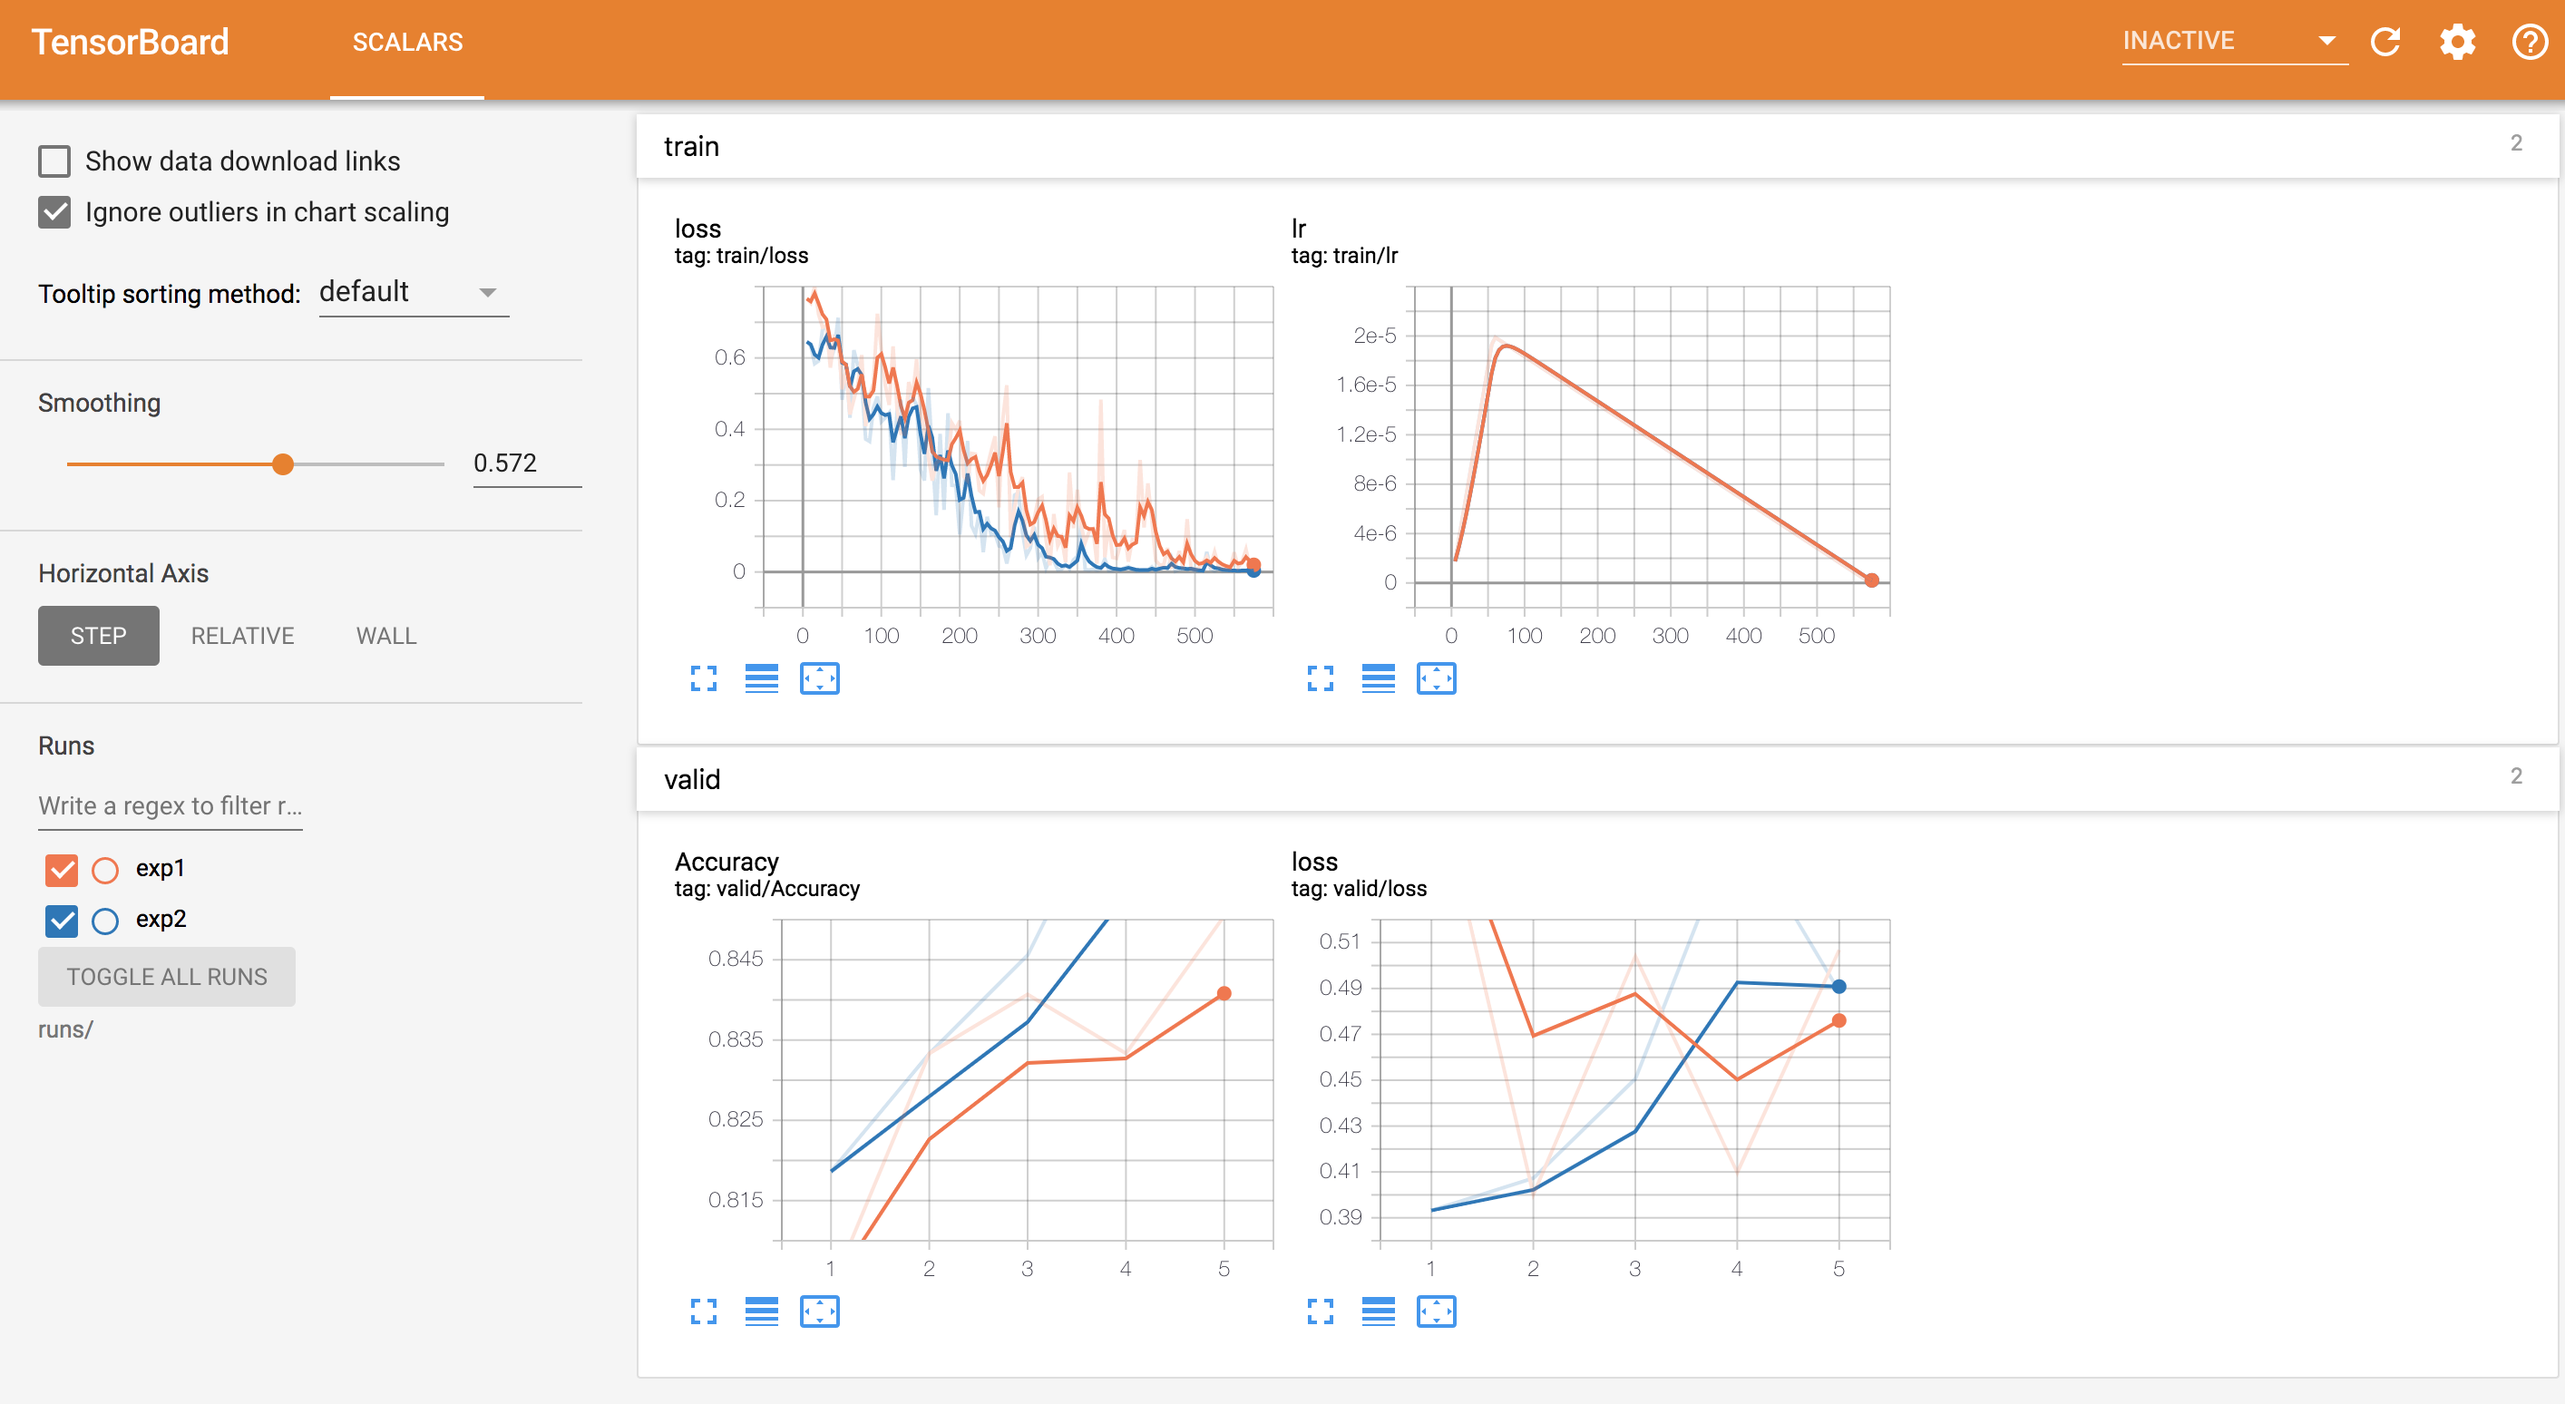
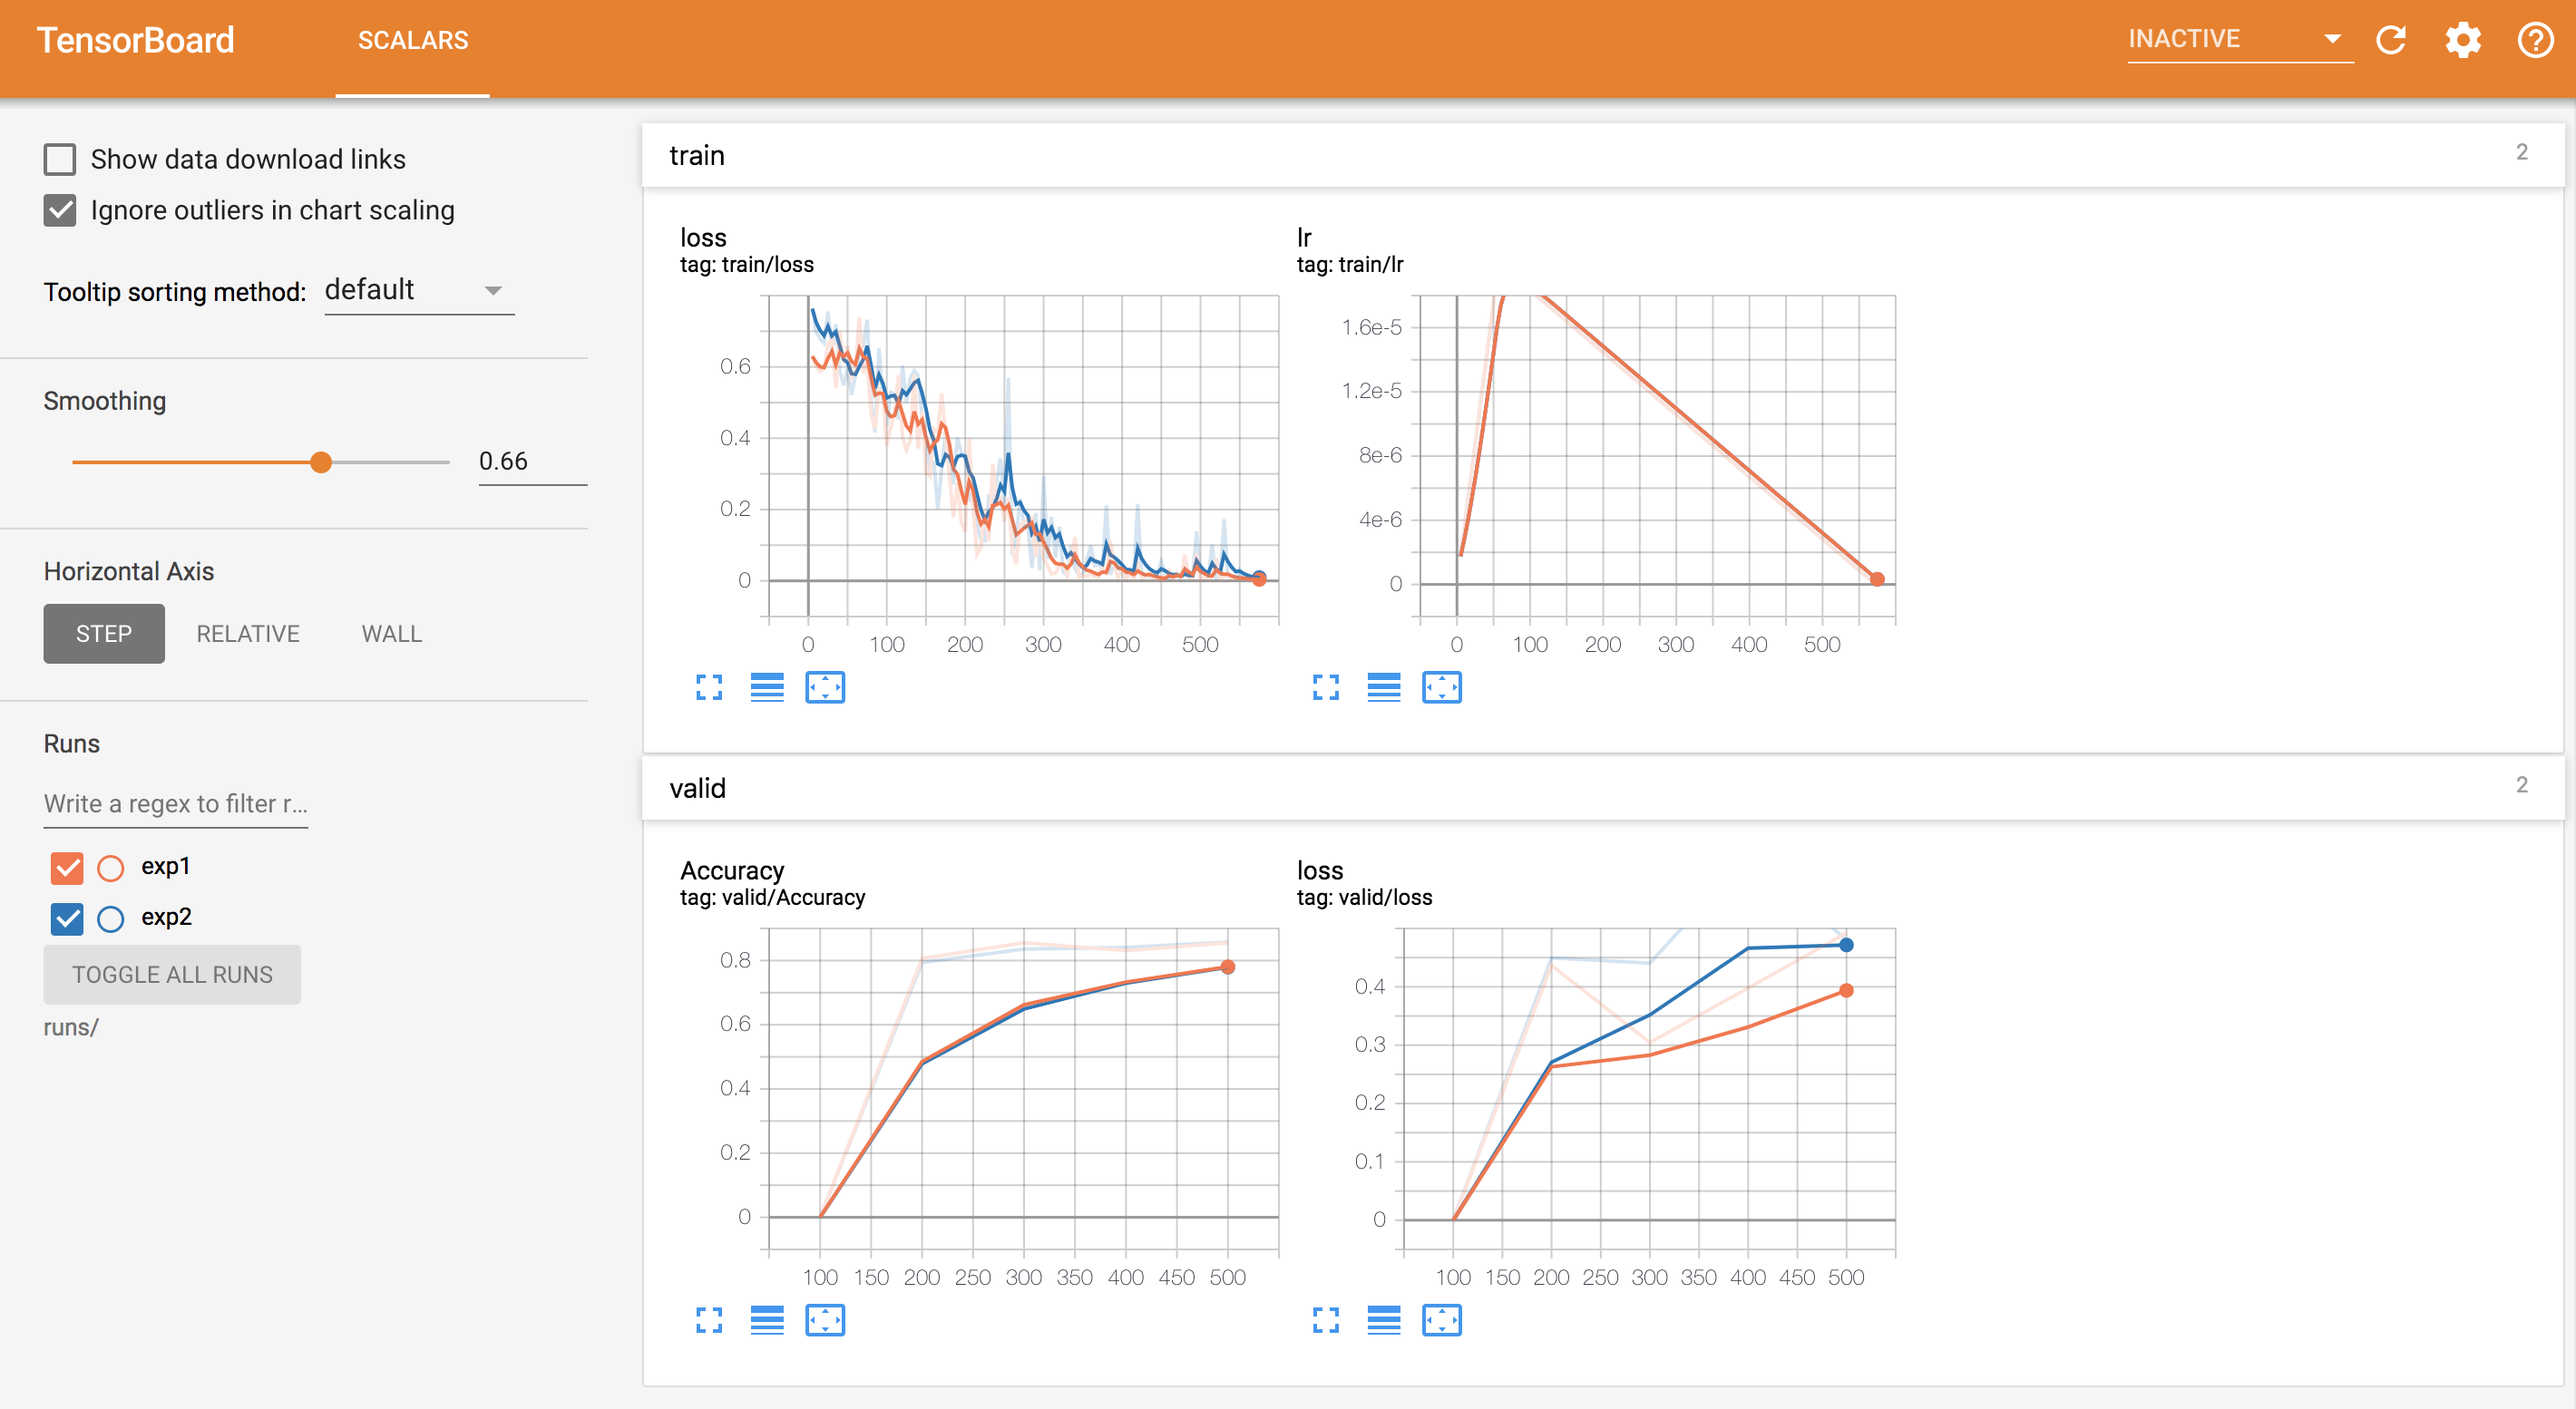
Fix CI and add missing docs
Fix Sphinx error. Add tensorboardX dependency in requirements.txt

Add tensorboardX in extras

Add tensorboard in spelling list

diff --git a/texar/torch/run/executor.py b/texar/torch/run/executor.py
@@ -257,6 +257,7 @@ class Executor:
 
     - :ref:`General arguments <executor-general-args>`
     - :ref:`Arguments for checkpoint management <executor-checkpoint-args>`
+    - :ref:`Arguments for tensorboard logging <executor-tbx-logging-args>`
     - :ref:`Arguments for training <executor-train-args>`
     - :ref:`Arguments for validation <executor-valid-args>`
     - :ref:`Arguments for testing <executor-test-args>`
@@ -334,14 +335,14 @@ class Executor:
 
     .. _executor-tbx-logging-args:
 
-    **Arguments for tensorboardX logging:**
+    **Arguments for tensorboard logging:**
 
     `tbx_logging_dir`: str
         Path to the directory for storing tensorboard logs.
 
     `tbx_log_every`: |Condition|
         Conditions that, when triggered, saves the tensorboard logs for train
-        metrics.
+        metrics. If None, :ref:`log_every <executor-log-args>` will be used.
 
     .. _executor-checkpoint-args:
 
@@ -1524,10 +1525,10 @@ class Executor:
 
             for key, value in valid_metrics.items():
                 self.summary_writer.add_scalar(
-                    f"valid/{key}", value.value(), executor.status["epoch"])
+                    f"valid/{key}", value.value(), executor.status["iteration"])
 
         _register(self._tbx_logging_conditions, tbx_train_log_fn)
-        _register([Event.Epoch], tbx_valid_log_fn)
+        _register(self._valid_conditions, tbx_valid_log_fn)
 
     def _write_log(self, log_str: str,
                    skip_tty: bool = False, skip_non_tty: bool = False,

diff --git a/texar/torch/run/executor_test.py b/texar/torch/run/executor_test.py
@@ -126,14 +126,14 @@ class ExecutorTest(unittest.TestCase):
             max_to_keep=3,
             save_every=[cond.time(seconds=10), cond.validation(better=True)],
             train_metrics=[("loss", metric.RunningAverage(20)),
-                           metric.F1(pred_name="preds"),
+                           metric.F1(pred_name="preds", mode="macro"),
                            metric.Accuracy(pred_name="preds")],
             optimizer={"type": torch.optim.Adam, "kwargs": {}},
             stop_training_on=cond.epoch(10),
-            valid_metrics=[metric.F1(pred_name="preds"),
+            valid_metrics=[metric.F1(pred_name="preds", mode="micro"),
                            ("loss", metric.Average())],
             validate_every=[cond.epoch()],
-            test_metrics=[metric.F1(pred_name="preds")],
+            test_metrics=[metric.F1(pred_name="preds", mode="weighted")],
             plateau_condition=[
                 cond.consecutive(cond.validation(better=False), 2)],
             action_on_plateau=[action.early_stop(patience=2),

diff --git a/texar/torch/run/metric/base_metric.py b/texar/torch/run/metric/base_metric.py
@@ -175,6 +175,14 @@ class SimpleMetric(Metric[Input, Value], ABC):
         return self._cached_value
 
     def _value(self) -> Value:
+        r"""Compute the metric value. This function is called in
+        :meth:`texar.torch.run.metric.SimpleMetric.value` and the output is
+        cached. This prevents recalculation of metrics which may be time
+        consuming.
+
+        Returns:
+            The metric value.
+        """
         raise NotImplementedError
 
 
